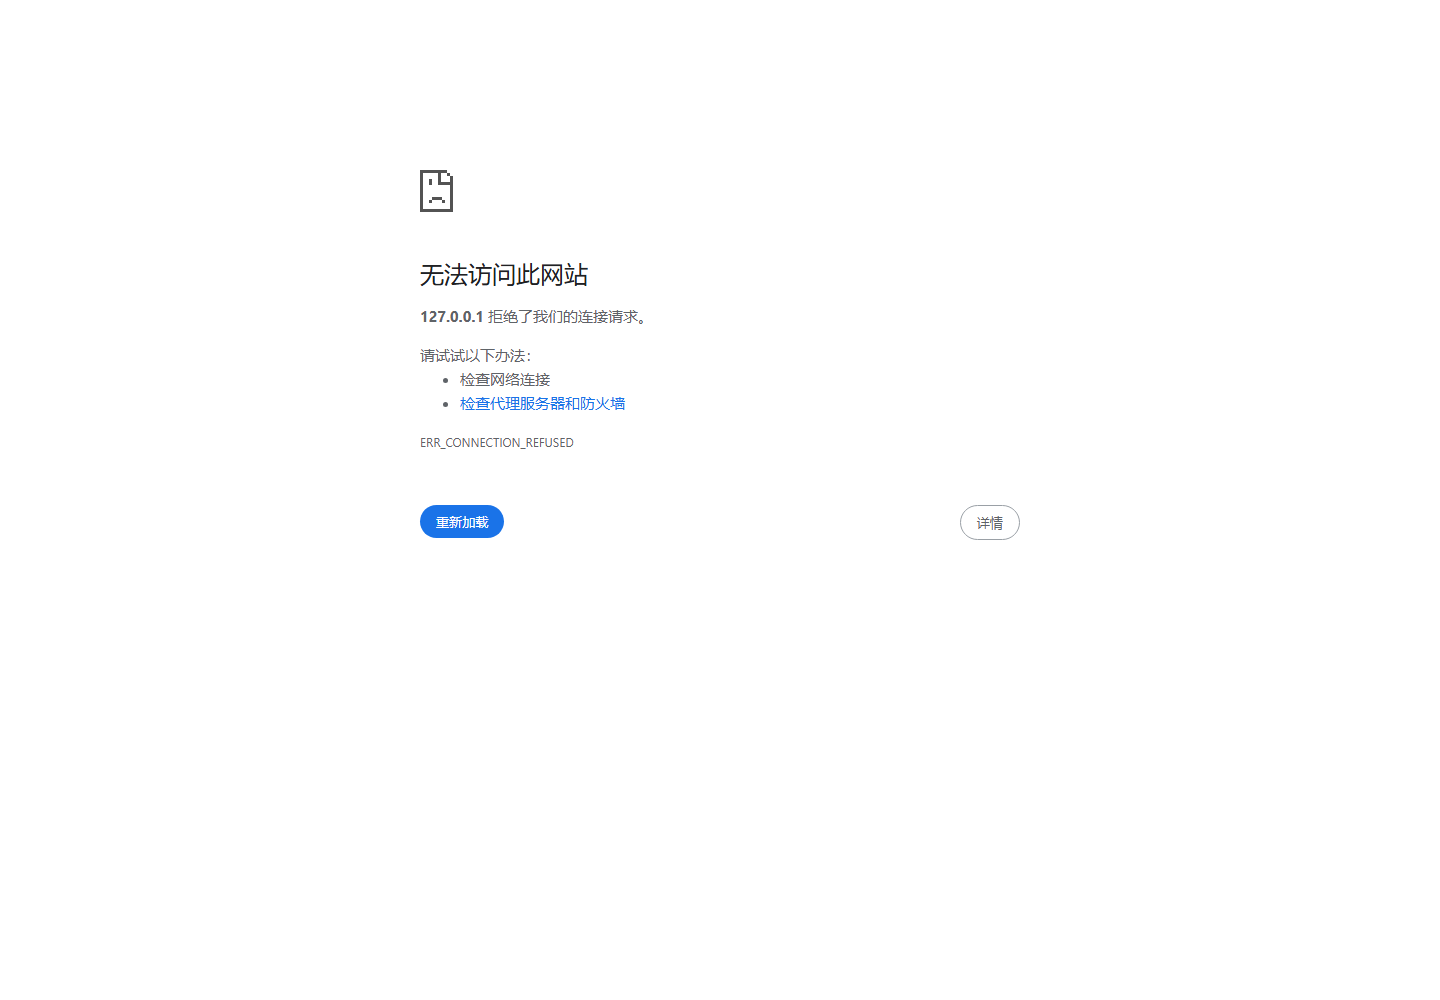
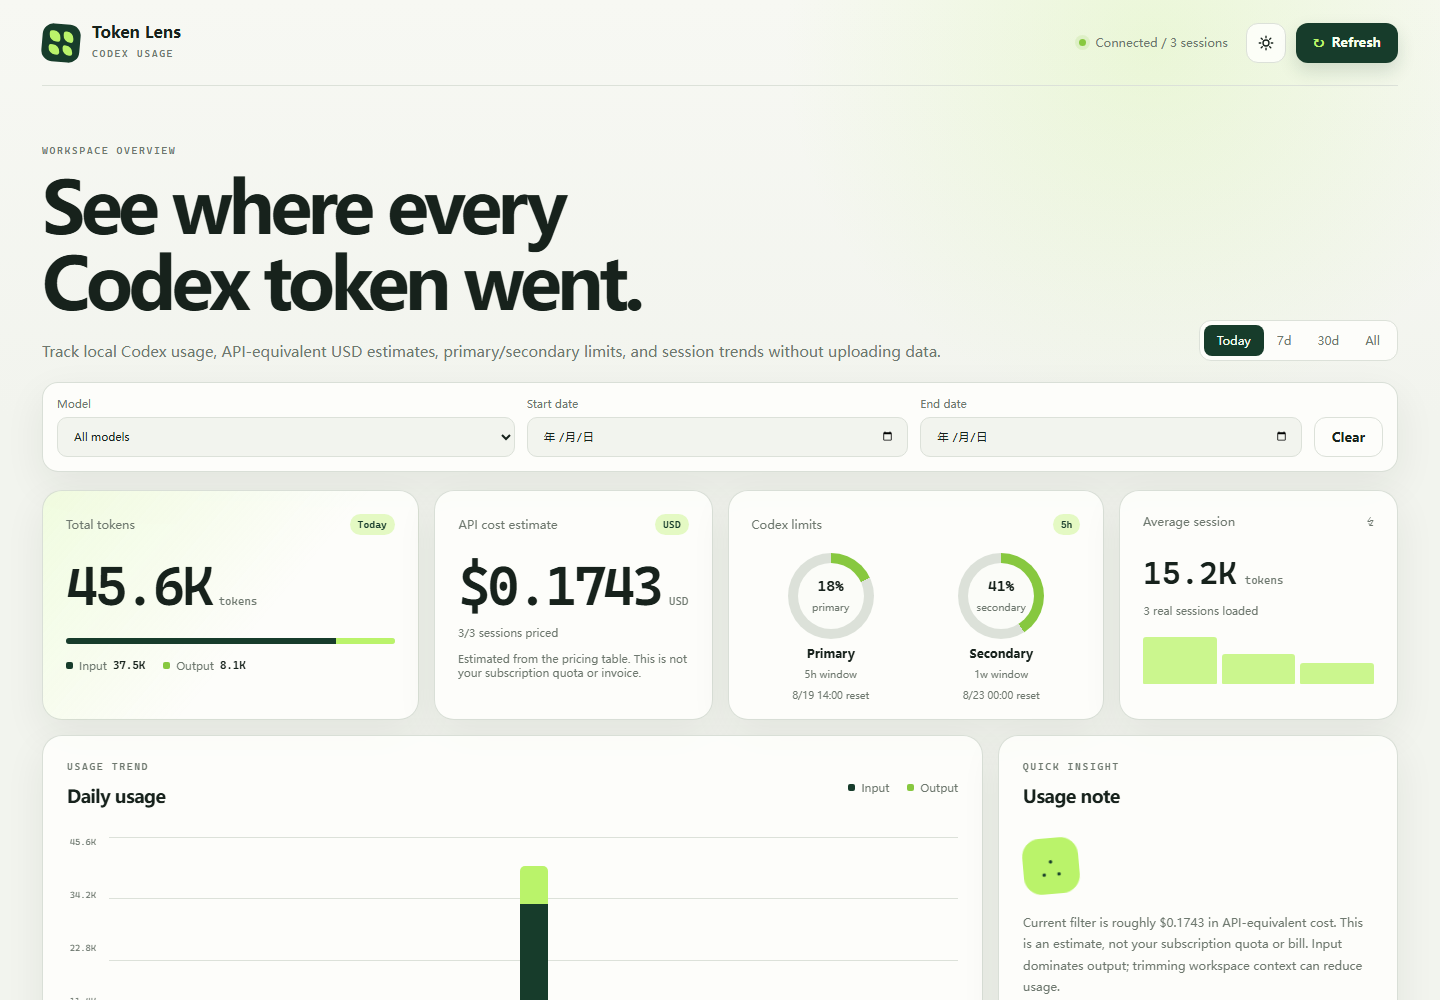
feat: default usage view to today

diff --git a/app.js b/app.js
@@ -1,7 +1,14 @@
 const THEME_KEY = "codex-token-lens-theme";
 
+function localDateIso(date = new Date()) {
+  const year = date.getFullYear();
+  const month = String(date.getMonth() + 1).padStart(2, "0");
+  const day = String(date.getDate()).padStart(2, "0");
+  return `${year}-${month}-${day}`;
+}
+
 const state = {
-  period: "30",
+  period: "today",
   sessions: [],
   rateLimits: null,
   costSummary: null,
@@ -19,9 +26,18 @@ const compact = new Intl.NumberFormat("en", { notation: "compact", maximumFracti
 const integer = new Intl.NumberFormat("en");
 const money = new Intl.NumberFormat("en-US", { style: "currency", currency: "USD", minimumFractionDigits: 4, maximumFractionDigits: 4 });
 
+function sessionDate(item) {
+  if (item.date) return String(item.date).slice(0, 10);
+  const updatedAt = new Date(item.updatedAt);
+  return Number.isNaN(updatedAt.getTime()) ? "" : localDateIso(updatedAt);
+}
+
 function filteredSessions() {
   let result = [...state.sessions];
-  if (state.period !== "all") {
+  if (state.period === "today") {
+    const today = localDateIso();
+    result = result.filter((item) => sessionDate(item) === today);
+  } else if (state.period !== "all") {
     const days = Number(state.period);
     const threshold = Date.now() - days * 86400000;
     result = result.filter((item) => new Date(item.updatedAt || `${item.date}T12:00:00`).getTime() >= threshold);
@@ -68,12 +84,11 @@ function render() {
 
 function filterLabel() {
   const parts = [];
-  parts.push(state.period === "all" ? "All records" : `Last ${state.period}d`);
-  if (state.modelFilter !== "all") parts.push(state.modelFilter);
   if (state.dateFrom || state.dateTo) parts.push(`${state.dateFrom || "start"} to ${state.dateTo || "now"}`);
+  else parts.push(state.period === "all" ? "All records" : state.period === "today" ? "Today" : `Last ${state.period}d`);
+  if (state.modelFilter !== "all") parts.push(state.modelFilter);
   return parts.join(" / ");
 }
-
 function populateModelFilter() {
   const select = $("#modelFilter");
   const models = [...new Set(state.sessions.map((item) => item.model).filter(Boolean))].sort();
@@ -284,36 +299,48 @@ async function loadRealUsage() {
   }
 }
 
-$$(".period-switch button").forEach((button) => {
+$$('.period-switch button').forEach((button) => {
   button.addEventListener("click", () => {
     $$(".period-switch button").forEach((item) => item.classList.remove("active"));
     button.classList.add("active");
     state.period = button.dataset.period;
+    state.dateFrom = "";
+    state.dateTo = "";
+    $("#dateFrom").value = "";
+    $("#dateTo").value = "";
     render();
   });
 });
-
 $("#modelFilter").addEventListener("change", (event) => {
   state.modelFilter = event.target.value;
   render();
 });
+function activateCustomDateRange() {
+  state.period = "all";
+  $$(".period-switch button").forEach((item) => item.classList.remove("active"));
+}
+
 $("#dateFrom").addEventListener("change", (event) => {
   state.dateFrom = event.target.value;
+  activateCustomDateRange();
   render();
 });
 $("#dateTo").addEventListener("change", (event) => {
   state.dateTo = event.target.value;
+  activateCustomDateRange();
   render();
 });
 $("#clearFilters").addEventListener("click", () => {
+  state.period = "today";
   state.modelFilter = "all";
   state.dateFrom = "";
   state.dateTo = "";
+  $("#modelFilter").value = "all";
   $("#dateFrom").value = "";
   $("#dateTo").value = "";
+  $$(".period-switch button").forEach((item) => item.classList.toggle("active", item.dataset.period === "today"));
   render();
 });
-
 $("#exportJson").addEventListener("click", () => exportSessions("json"));
 $("#exportCsv").addEventListener("click", () => exportSessions("csv"));
 $("#refreshButton").addEventListener("click", loadRealUsage);

diff --git a/index.html b/index.html
@@ -32,8 +32,9 @@
           <p class="hero-copy">Track local Codex usage, API-equivalent USD estimates, primary/secondary limits, and session trends without uploading data.</p>
         </div>
         <div class="period-switch" role="group" aria-label="Usage period">
+          <button type="button" class="active" data-period="today">Today</button>
           <button type="button" data-period="7">7d</button>
-          <button type="button" class="active" data-period="30">30d</button>
+          <button type="button" data-period="30">30d</button>
           <button type="button" data-period="all">All</button>
         </div>
       </section>

diff --git a/test/server.test.js b/test/server.test.js
@@ -146,6 +146,7 @@ async function fetchUsage(fixture, extraEnv = {}) {
     const html = await page.text();
     assert.match(html, /Codex Token Lens/);
     assert.match(html, /Export CSV/);
+    assert.match(html, /data-period="today"/);
     return await response.json();
   } finally {
     if (!child.killed) child.kill();

diff --git a/README.md b/README.md
@@ -7,7 +7,7 @@
 ## 功能
 
 - 按最近 7 天、30 天、全部记录查看用量
-- 按日期范围和模型筛选会话
+- 默认只显示当天会话；可切换 Today / 7d / 30d / All，或使用自定义日期范围和模型筛选
 - 汇总 input、cached input、cache write input、output、reasoning output 和 total tokens
 - 显示最新 `primary` / `secondary` 使用限额与重置时间
 - 按内置或自定义价格表估算 API 等价美元成本
